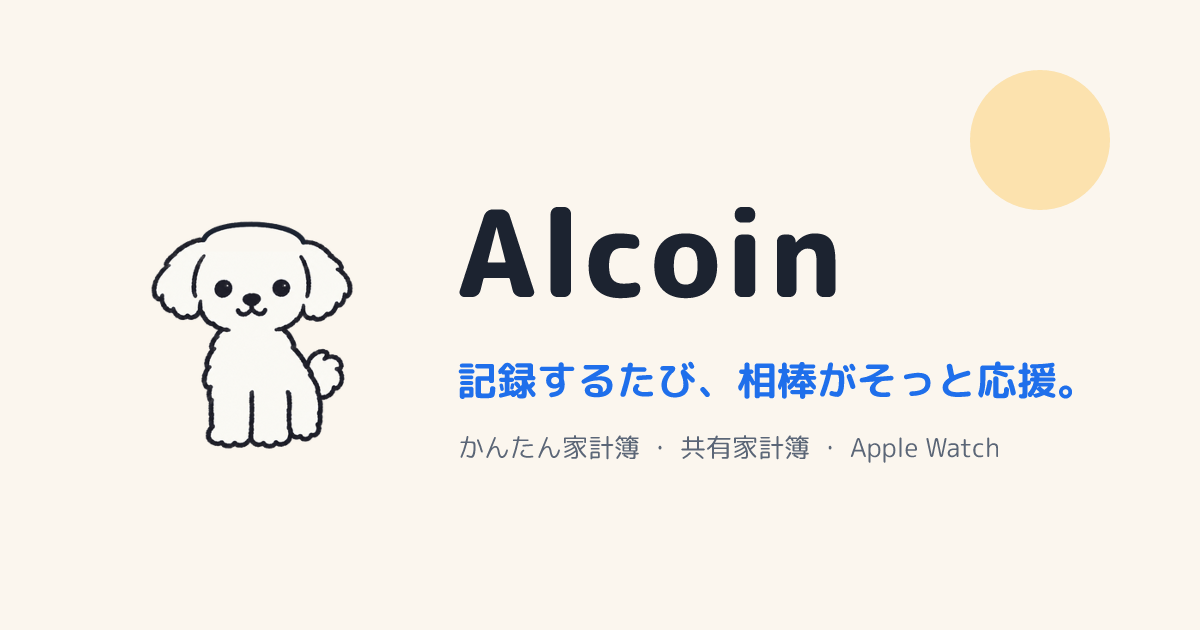
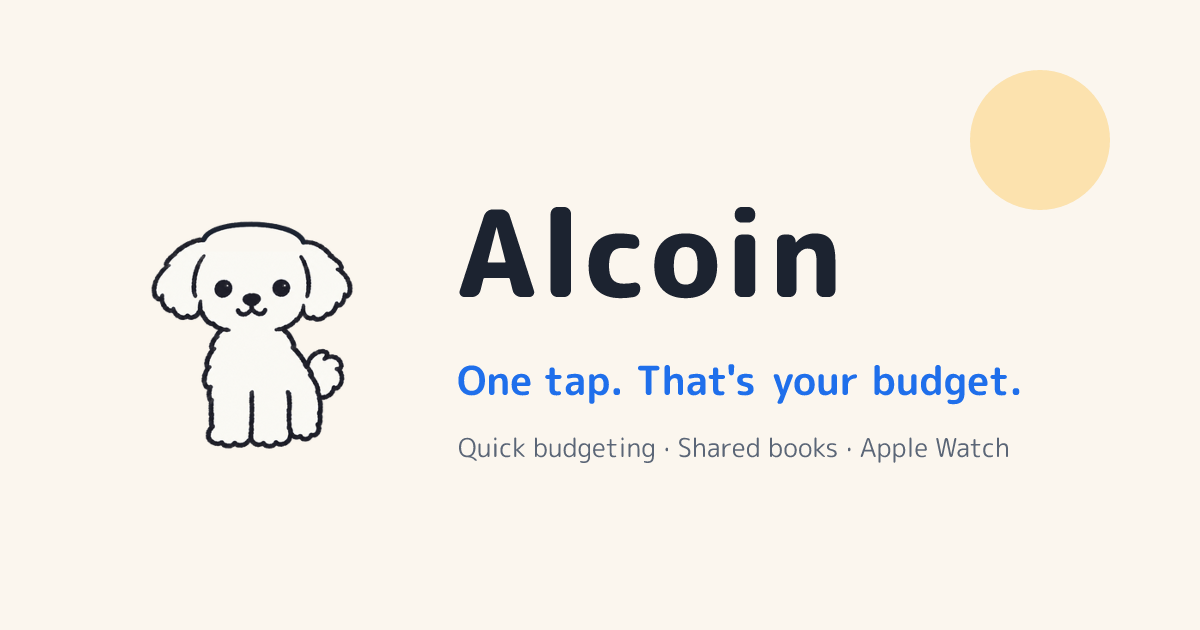
feat(alcoin): new tagline ポチッと、家計簿。 / One tap. That's your budget. in the hero, the en page title and both OGP images (the en image now has an English tagline and subline); the hero's decorative circle moves to the phone's bottom left so it no longer sits under the language link; footer year follows

Changed region(s): [[0.37, 0.573, 0.8942, 0.6333], [0.37, 0.6937, 0.8325, 0.754]]

diff --git a/app/products/alcoin/_components/AlcoinLanding.tsx b/app/products/alcoin/_components/AlcoinLanding.tsx
@@ -40,7 +40,7 @@ const content = {
   en: {
     name: "Alcoin",
     otherLang: { label: "日本語", href: alcoinPaths.home.ja },
-    tagline: "A companion that quietly cheers you on.",
+    tagline: "One tap. That's your budget.",
     lead: "Type an amount, tap a category, done. The fastest way to track your spending, with a little dog that wags its tail every time you record. Share a book with family, keep period books for trips and events, record in 17 currencies, and use Apple Watch, Siri and widgets. Your personal book is free forever.",
     heroShot: { src: "/alcoin-home-en.webp", alt: "Home screen with the budget ring, the dog and the keypad" },
     cta: "See how it works",
@@ -302,7 +302,7 @@ const content = {
   ja: {
     name: "アルコイン",
     otherLang: { label: "English", href: alcoinPaths.home.en },
-    tagline: "記録するたび、相棒がそっと応援。",
+    tagline: "ポチッと、家計簿。",
     lead: "金額を打って、カテゴリを押すだけ。最速で記録できる家計簿です。記録するたびに、相棒の犬がしっぽをふって応援してくれます。家族との共有家計簿、旅行やイベントの「期間の家計簿」、17の通貨、Apple Watch・Siri・ウィジェットにも対応。個人の家計簿はずっと無料です。",
     heroShot: { src: "/alcoin-home-ja.webp", alt: "予算リングと犬、テンキーのあるホーム画面" },
     cta: "くわしく見る",
@@ -716,7 +716,7 @@ export function AlcoinLanding({ lang }: { lang: AlcoinLang }) {
                 )}
               </div>
               <div className="relative w-56 md:w-2/5 md:max-w-[18rem]">
-                <div className="absolute -right-6 -top-6 h-24 w-24 rounded-full bg-alcoin-coin/30" aria-hidden />
+                <div className="absolute -bottom-6 -left-6 h-24 w-24 rounded-full bg-alcoin-coin/30" aria-hidden />
                 <PhoneShot src={t.heroShot.src} alt={t.heroShot.alt} className="relative" />
               </div>
             </div>

diff --git a/app/products/alcoin/page.tsx b/app/products/alcoin/page.tsx
@@ -11,7 +11,7 @@ const description =
   "Alcoin is the fastest budget app for iPhone: type an amount, tap a category, done. Share a book with family, keep period books for trips in 17 currencies, and record from Apple Watch, Siri or widgets. Your personal book is free forever.";
 
 export const metadata: Metadata = {
-  title: "Alcoin - A companion that quietly cheers you on",
+  title: "Alcoin - One tap. That's your budget.",
   description,
   alternates: alcoinAlternates("home", "en"),
   openGraph: {

diff --git a/components/Footer.tsx b/components/Footer.tsx
@@ -3,7 +3,7 @@ export default function Footer() {
     <footer className="w-full bg-brand-500">
       <div className="container mx-auto px-4 sm:px-6 lg:px-8 max-w-7xl py-6">
         <div className="flex justify-center">
-          <div className="text-sm text-white">© 2025 Bluedog. All rights reserved.</div>
+          <div className="text-sm text-white">© {new Date().getFullYear()} Bluedog. All rights reserved.</div>
         </div>
       </div>
     </footer>
